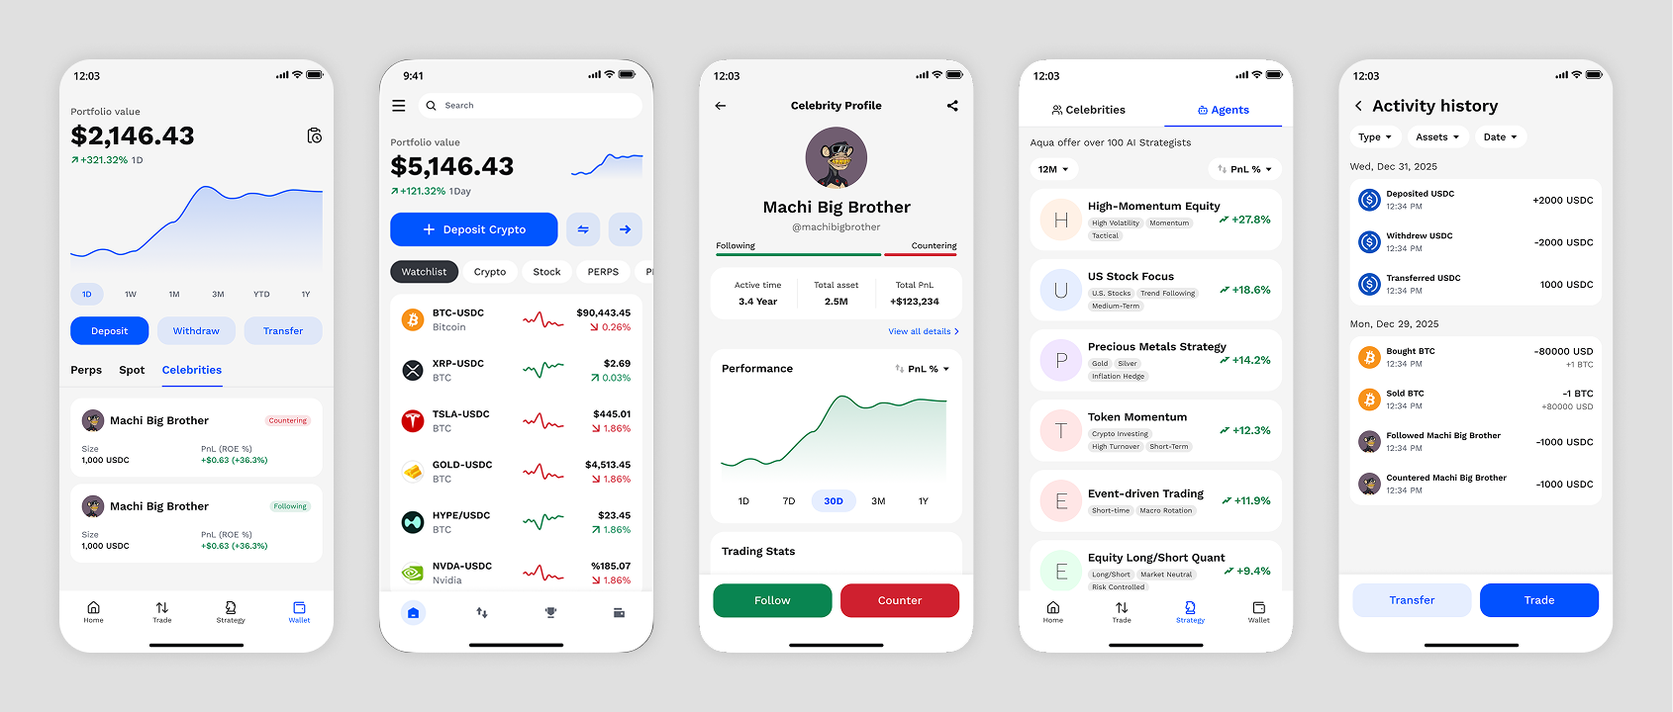
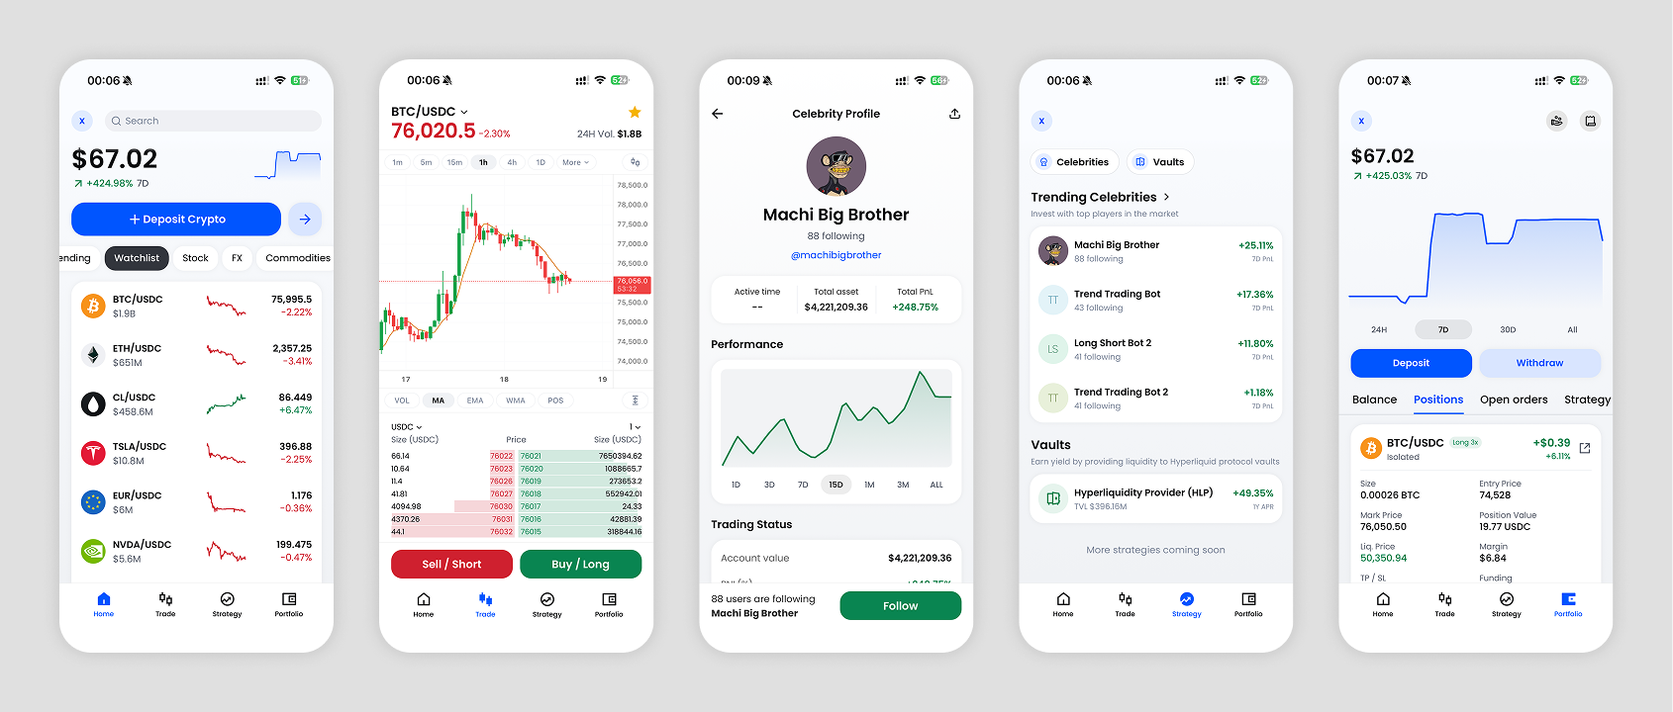
Update AQUA Exchange project & resume: reorder, add iframe, update content and roles

diff --git a/content/en/project/aqua-exchange.md b/content/en/project/aqua-exchange.md
@@ -1,18 +1,45 @@
 ---
 title: "AQUA Exchange"
 date: "2026-02-21"
-intro: "Trade Anything, By Anyone"
-sorting: 4
+intro: "Web3 Full-Spectrum Derivatives Exchange"
+sorting: 5
 coverImage: "/assets/cover-image/Aqua.webp"
 favicon: "/assets/favicon/aqua-icon.webp"
 ---
 
-> Trade Anything, By Anyone
+> Web3 Full-Spectrum Derivatives Exchange
 >
 
-AQUA Exchange is a mobile-first social derivatives app built on [**Hyperliquid**](https://hyperliquid.xyz/) that turns complex on-chain trading into simple, one-tap decisions. As the co-founder and design lead, I am responsible for the end-to-end product design — from branding and visual identity to interaction design and front-end implementation via vibe coding.
+AQUA Exchange is a mobile-first social derivatives app built on [**Hyperliquid**](https://hyperliquid.xyz/) that turns complex on-chain trading into simple, one-tap decisions. As the co-founder, I am responsible for product ideation, UX design, front-end development, and brand marketing.
 
-![](/assets/images/aquaex/aqua-hero.webp)
+<style>
+.aqua-iframe-container {
+  width: 100%;
+  overflow: hidden;
+  border-radius: 8px;
+  border: 1px solid #e5e7eb;
+  aspect-ratio: 16/9;
+  position: relative;
+}
+.aqua-iframe-container iframe {
+  width: 133.33%;
+  height: 133.33%;
+  transform: scale(0.75);
+  transform-origin: top left;
+  border: none;
+}
+@media (max-width: 768px) {
+  .aqua-iframe-container {
+    aspect-ratio: 1/1;
+  }
+}
+</style>
+
+<div class="aqua-iframe-container">
+<iframe src="https://www.aquaex.io/"></iframe>
+</div>
+
+<a href="https://www.aquaex.io/" target="_blank" rel="noopener noreferrer" style="display: inline-flex; align-items: center; gap: 6px; margin-top: 12px; padding: 6px 14px; background: #000; color: #fff; border-radius: 6px; text-decoration: none; font-weight: 500; font-size: 14px;">Visit AQUA Exchange <svg width="14" height="14" viewBox="0 0 24 24" fill="none" stroke="currentColor" stroke-width="2" stroke-linecap="round" stroke-linejoin="round"><path d="M7 17L17 7"/><path d="M7 7h10v10"/></svg></a>
 
 ## Vision
 
@@ -20,34 +47,27 @@ The derivatives market is massive, yet on-chain trading remains inaccessible to 
 
 ## What We Offer
 
-### Access All Markets
-
-One-click access to on-chain derivatives across Hyperliquid/HIP-3 — crypto, tokenized stocks, metals, gaming assets and more. AQUA aggregates diverse markets into a single, unified trading experience.
-
-### Decision-Simplifying
-
-Native social & AI features — including celebrity follow/inverse trading and agent strategies — reduce decision friction and turn discovery into action. Users don't need to be experts; they can leverage the wisdom of top traders and AI-powered strategies.
-
-### Secure & Convenient
-
-Mobile-first design with fiat on-ramps and a social-login, no-mnemonic wallet for secure, low-friction trading. Users can get started without dealing with seed phrases or complex wallet setups.
+AQUA supports full on-chain derivatives trading across Hyperliquid/HIP-3 — crypto, tokenized stocks, metals, gaming assets, and more — with all the essential exchange capabilities including real-time charts, order management, position tracking, and market data. Users can follow and copy celebrity traders or AI agent strategies with one tap, access Hyperliquid Vaults for managed trading strategies, and earn rewards through a built-in referral system with points and commission rebates. The mobile-first design features fiat on-ramps and a social-login, no-mnemonic wallet for secure, low-friction trading.
 
 ![](/assets/images/aquaex/aqua-ui.webp)
 
 ## My Role
 
-As the design lead and co-founder, my responsibilities span across:
+As the co-founder, I am responsible for:
 
-- **Brand & Visual Identity** — Created the AQUA brand system, including logo, color palette, typography, and visual language
-- **Product Design** — Designed the full user journey from onboarding to trading, focusing on simplifying complex derivatives workflows
-- **Mobile-First UX** — Crafted an intuitive mobile trading experience that balances information density with usability
-- **Social Trading Features** — Designed the follow/inverse trading system and social discovery flows
-- **Vibe Coding** — Implemented key front-end components and marketing pages using vibe coding approach
+- **Product Ideation** — Defining the product vision and exploring creative directions for on-chain trading experiences
+- **Feature Definition** — Scoping and prioritizing features across trading, social, and onboarding flows
+- **UX Design** — Designing the end-to-end user experience, from information architecture to interaction details
+- **Front-end Development** — Building key front-end components and pages
+- **Brand & Marketing** — Creating the AQUA brand system and driving marketing strategies
 
 ## Partners
 
-AQUA is built on Hyperliquid and integrates with Privy for seamless social-login wallet infrastructure.
+- [**Hyperliquid**](https://hyperliquid.xyz/) — On-chain perpetual trading infrastructure
+- [**TradingView**](https://www.tradingview.com/) — Professional charting and candlestick data
+- [**Privy**](https://www.privy.io/) — Privacy-preserving social-login wallet infrastructure
+- [**Olwy**](https://olwy.co/) — Copy trading and follow trading capabilities
 
 ## Status
 
-AQUA is currently in development, with App Store and Google Play launches coming soon.
+AQUA is now live on both iOS and Android. Visit [aquaex.io](https://www.aquaex.io/) to download and start trading.

diff --git a/resume/content/en/product-manager.md b/resume/content/en/product-manager.md
@@ -12,12 +12,11 @@ label: "Product Manager"
 
 ## Core Competencies
 
-- **User & Market Insight** – Skilled at uncovering user needs through research, interviews, and behavioral analysis; adept at identifying innovation opportunities from real-world usage patterns
+- **Full-stack Product Builder** – Capable of owning the entire product lifecycle independently — from ideation and feature definition to UX design and front-end development (React) — bridging strategy, design, and engineering into one cohesive delivery
 - **AI Product Expertise** – Deeply involved in Microsoft's AI product development (LLM-based consumer products and content ecosystems), with strong understanding of industry trends, market dynamics, and human-centered AI applications
+- **User & Market Insight** – Skilled at uncovering user needs through research, interviews, and behavioral analysis; adept at identifying innovation opportunities from real-world usage patterns
 - **Cross-functional Collaboration** – Experienced in coordinating across BD, product, design, engineering, and data teams globally to drive rapid, agile iteration and successful product delivery
 - **Full-cycle Product Management** – End-to-end ownership from ideation and roadmap planning to launch and post-launch iteration, with data-driven decision-making cultivated through MBA and industry experience
-- **Product Communication & Storytelling** – Proficient in crafting and presenting compelling product narratives and professional materials to clearly convey value and increase adoption
-- **Design-driven Execution** – Deep design background enabling high-quality UX standards, efficient collaboration with design teams, and a unique ability to bridge strategy and craft
 
 ---
 
@@ -37,19 +36,23 @@ label: "Product Manager"
 - **MSN Content Creator**: Built AI-assisted content remixing tools for the MSN Partner Hub platform, enabling 3,000+ global media partners to increase audience reach and engagement.
 - **MSN Money Assistant**: Proposed and scoped an AI investment assistant concept, defining user flows and interaction models to support personalized financial insights.
 
+### <img src="/assets/favicon/aqua-icon.webp" alt=""> AQUA Exchange – Product, Design & Development <span class="resume-meta">Dec 2025 – Present</span>
+
+- A Web3 mobile-first derivatives exchange built on Hyperliquid, supporting full perpetual trading, celebrity & AI copy trading, Hyperliquid Vaults, and referral rewards. Live on iOS and Android.
+- Sole product and design owner — drove product ideation, feature definition, UX design, and front-end development (React), delivering a pixel-perfect trading app from concept to production.
+- Built every screen end-to-end: defined all product features, designed the full user experience, and implemented the entire front end — demonstrating full-stack product-design-engineering capability.
+
 ### <img src="/assets/favicon/ant.svg" alt=""> Ant International – UX Designer (Product-Oriented) <span class="resume-meta">Shanghai, Apr 2020 – Dec 2022</span>
 
 - Led end-to-end design and product definition for Alipay+ global unified payment solution, covering the full payment journey from onboarding to settlement for over 800M e-wallet users worldwide; localized experiences through in-depth market research in Southeast Asia, South Korea, and Eastern Europe.
-- Designed and improved both consumer-facing payment flows and B2B merchant tools, ensuring usability, regulatory compliance, and scalability across multiple markets.
-- Tracked post-launch user feedback and performance data to drive continuous enhancements, adapting features to evolving market and user needs.
+- Designed and improved both consumer-facing payment flows and B2B merchant tools, ensuring usability, regulatory compliance, and scalability across multiple markets; tracked post-launch feedback and performance data to drive continuous enhancements.
 - Partnered with BD teams on field visits to 7 cross-border e-commerce and payment companies in Shenzhen, gathering firsthand insights to shape feature priorities and support successful deal closures.
 
 
 ### <img src="/assets/favicon/bjmun.svg" alt=""> Entrepreneurial Experience – BJMUN – Founder / Chairman <span class="resume-meta">Beijing, 2013 – 2024</span>
 
 - Founded and scaled a Model United Nations (MUN) youth education platform, delivering large-scale simulation events to 3,000+ annual students and generating RMB 5M+ yearly revenue over 10 years. 
-- Built a stable B2B client network with top schools and agencies; managed end-to-end operations from event planning to commercial partnerships.
-- Maintained business continuity during the pandemic and successfully exited in 2024 through a full brand and company sale and personal exit.
+- Built a stable B2B client network with top schools and agencies; managed end-to-end operations from event planning to commercial partnerships. Maintained business continuity during the pandemic and successfully exited in 2024 through a full brand and company sale and personal exit.
 
 
 ---

diff --git a/content/zh/project/aqua-exchange.md b/content/zh/project/aqua-exchange.md
@@ -1,18 +1,45 @@
 ---
 title: "AQUA Exchange"
 date: "2026-02-21"
-intro: "交易一切，尽在 Aqua"
-sorting: 4
+intro: "Web3 全衍生品交易所"
+sorting: 5
 coverImage: "/assets/cover-image/Aqua.webp"
 favicon: "/assets/favicon/aqua-icon.webp"
 ---
 
-> 交易一切，尽在 Aqua
+> Web3 全衍生品交易所
 >
 
-AQUA Exchange 是一款基于 [**Hyperliquid**](https://hyperliquid.xyz/) 构建的移动优先社交衍生品交易应用，将复杂的链上交易简化为一键式操作。作为联合创始人兼设计负责人，我负责端到端的产品设计——从品牌与视觉识别到交互设计，再到通过 Vibe Coding 进行前端实现。
+AQUA Exchange 是一款基于 [**Hyperliquid**](https://hyperliquid.xyz/) 构建的移动优先社交衍生品交易应用，将复杂的链上交易简化为一键式操作。作为联合创始人，我负责产品创意、UX 设计、前端开发和品牌营销。
 
-![](/assets/images/aquaex/aqua-hero.webp)
+<style>
+.aqua-iframe-container {
+  width: 100%;
+  overflow: hidden;
+  border-radius: 8px;
+  border: 1px solid #e5e7eb;
+  aspect-ratio: 16/9;
+  position: relative;
+}
+.aqua-iframe-container iframe {
+  width: 133.33%;
+  height: 133.33%;
+  transform: scale(0.75);
+  transform-origin: top left;
+  border: none;
+}
+@media (max-width: 768px) {
+  .aqua-iframe-container {
+    aspect-ratio: 1/1;
+  }
+}
+</style>
+
+<div class="aqua-iframe-container">
+<iframe src="https://www.aquaex.io/"></iframe>
+</div>
+
+<a href="https://www.aquaex.io/" target="_blank" rel="noopener noreferrer" style="display: inline-flex; align-items: center; gap: 6px; margin-top: 12px; padding: 6px 14px; background: #000; color: #fff; border-radius: 6px; text-decoration: none; font-weight: 500; font-size: 14px;">访问 AQUA Exchange <svg width="14" height="14" viewBox="0 0 24 24" fill="none" stroke="currentColor" stroke-width="2" stroke-linecap="round" stroke-linejoin="round"><path d="M7 17L17 7"/><path d="M7 7h10v10"/></svg></a>
 
 ## 愿景
 
@@ -20,34 +47,27 @@ AQUA Exchange 是一款基于 [**Hyperliquid**](https://hyperliquid.xyz/) 构建
 
 ## 核心优势
 
-### 全市场覆盖
-
-一键接入 Hyperliquid/HIP-3 上的链上衍生品——涵盖加密货币、代币化股票、金属、游戏资产等。AQUA 将多元市场整合到一个统一的交易体验中。
-
-### 决策简化
-
-原生社交与 AI 功能——包括名人跟单/反向交易和 AI 代理策略——降低决策阻力，将发现直接转化为行动。用户无需成为专家，即可借助顶级交易者的智慧和 AI 驱动的策略。
-
-### 安全便捷
-
-移动优先设计，支持法币入金和社交登录的免助记词钱包，实现安全、低摩擦的交易体验。用户无需处理种子短语或复杂的钱包设置即可快速上手。
+AQUA 支持 Hyperliquid/HIP-3 上的全部链上衍生品交易——涵盖加密货币、代币化股票、金属、游戏资产等——具备交易所所有基础能力，包括实时图表、订单管理、持仓追踪和行情数据。用户可以一键跟单名人交易员或 AI 代理策略，接入 Hyperliquid Vaults 参与托管交易策略，并通过内置的推荐系统获取积分和返佣奖励。移动优先设计，支持法币入金和社交登录的免助记词钱包，实现安全、低摩擦的交易体验。
 
 ![](/assets/images/aquaex/aqua-ui.webp)
 
 ## 我的角色
 
-作为设计负责人和联合创始人，我的职责涵盖：
+作为联合创始人，我负责：
 
-- **品牌与视觉识别** — 创建 AQUA 品牌体系，包括标志、色彩体系、字体排印和视觉语言
-- **产品设计** — 设计从注册到交易的完整用户旅程，专注于简化复杂的衍生品交易流程
-- **移动优先体验** — 打造直观的移动端交易体验，在信息密度与易用性之间取得平衡
-- **社交交易功能** — 设计跟单/反向交易系统及社交发现流程
-- **Vibe Coding** — 通过 Vibe Coding 方式实现关键前端组件和营销页面
+- **产品创意** — 定义产品愿景，探索链上交易体验的创新方向
+- **功能定义** — 规划和确定交易、社交、注册等核心功能的范围与优先级
+- **UX 设计** — 设计端到端的用户体验，从信息架构到交互细节
+- **前端开发** — 构建关键前端组件和页面
+- **品牌营销** — 创建 AQUA 品牌体系并推动营销策略
 
 ## 合作伙伴
 
-AQUA 基于 Hyperliquid 构建，并集成 Privy 提供无缝的社交登录钱包基础设施。
+- [**Hyperliquid**](https://hyperliquid.xyz/) — 链上永续合约交易基础设施
+- [**TradingView**](https://www.tradingview.com/) — 专业 K 线图表与行情数据
+- [**Privy**](https://www.privy.io/) — 隐私保护的社交登录钱包基础设施
+- [**Olwy**](https://olwy.co/) — 跟单与跟投功能
 
 ## 状态
 
-AQUA 目前正在开发中，App Store 和 Google Play 即将上线。
+AQUA 已在 iOS 和 Android 上线。前往 [aquaex.io](https://www.aquaex.io/) 下载并开始交易吧。

diff --git a/resume/content/en/product-designer.md b/resume/content/en/product-designer.md
@@ -12,11 +12,11 @@ label: "Product Designer"
 
 ## Core Competencies
 
-- **End-to-End Design & Design Systems:** Experienced in the full design cycle — from user research, interaction prototyping, and visual design to building and maintaining design systems — ensuring consistent expression and efficient product iteration.
-- **AI-Empowered Design:** Proficient in AI-native design workflows — leveraging Vibecoding for rapid prototyping and implementation, prompt engineering for creative exploration, and integrating LLM capabilities into product experiences from concept to delivery.
-- **User Research & Insight Generation:** Skilled at conducting interviews, usability testing, and data analysis to uncover user pain points and translate findings into actionable design solutions.
-- **Cross-Functional Team Management:** Proven ability to lead cross-functional teams of PM, engineers, and designers, driving design implementation in complex projects and enhancing overall value.
-- **Global Perspective:** Extensive experience designing international products across North America and Southeast Asia, with the ability to balance diverse user needs and cultural contexts.
+- **Full-stack Product Builder:** Capable of owning the entire product lifecycle independently — from ideation and feature definition to UX design and front-end development (React) — delivering pixel-perfect products from concept to production
+- **End-to-End Design & Design Systems:** Experienced in the full design cycle — from user research, interaction prototyping, and visual design to building and maintaining design systems — ensuring consistent expression and efficient product iteration
+- **AI-Empowered Design:** Proficient in AI-native design workflows — leveraging coding for rapid prototyping and implementation, prompt engineering for creative exploration, and integrating LLM capabilities into product experiences from concept to delivery
+- **Cross-Functional Team Leadership:** Proven ability to lead cross-functional teams of PM, engineers, and designers, driving design implementation in complex projects and enhancing overall value
+- **Global Perspective:** Extensive experience designing international products across North America, Southeast Asia, and Web3, with the ability to balance diverse user needs and cultural contexts
 
 ---
 
@@ -33,11 +33,16 @@ label: "Product Designer"
 - Contribute to Microsoft China design team Studio 8's communications, leading team brand building, internal/external outreach; including Peking University course collaboration and Microsoft Asia R&D Group annual event key visual design.
 - Drive Vibe Coding and various AI tools adoption within the design team, exploring new AI + Design workflows to boost design efficiency. Encourage designers to take on more PM responsibilities, expanding design's influence within the team. Simultaneously drive team tool and process optimization to holistically improve productivity and team well-being.
 
+### <img src="/assets/favicon/aqua-icon.webp" alt=""> AQUA Exchange – Product, Design & Development <span class="resume-meta">Dec 2025 – Present</span>
+
+- A Web3 mobile-first derivatives exchange built on Hyperliquid, supporting full perpetual trading, celebrity & AI copy trading, Hyperliquid Vaults, and referral rewards. Live on iOS and Android.
+- Sole product and design owner — drove product ideation, feature definition, UX design, and front-end development (React), delivering a pixel-perfect trading app from concept to production.
+- Built every screen end-to-end: defined all product features, designed the full user experience, and implemented the entire front end — demonstrating full-stack product-design-engineering capability.
+
 ### <img src="/assets/favicon/ant.svg" alt=""> Ant International — UX Designer <span class="resume-meta">Shanghai, Apr 2020 – Dec 2022</span>
 
 - Participated in Alipay+ global payment network design, covering user-side (mobile and desktop payment experience) and institutional-side (merchant onboarding website, help platform, developer integration flow, documentation center, and developer portal) full-cycle experience design.
 - Led payment experience design for Alipay users on Apple App Store, including payment method enrollment flow and the Alipay "Apple Zone" experience. Apple Zone provides Apple users with membership benefits, billing management, and other features to enhance brand affinity and user retention.
-- Designed payment experiences for Taobao Global and Tmall International in Southeast Asia, Taiwan, Hong Kong, and Macao, optimizing payment flows to improve convenience and success rates.
 - Led Ant Group's first Figma procurement and adoption plan, driving compliance, data security, and procurement process improvements for overseas SaaS tools, and managing Figma account and usage standards at the group level.
 
 ---

diff --git a/resume/content/zh/product-manager.md b/resume/content/zh/product-manager.md
@@ -12,12 +12,11 @@ label: "产品经理"
 
 ## 核心能力
 
-- **用户与市场洞察** – 擅长通过用户研究、访谈和行为分析挖掘用户需求；善于从真实使用场景中发现创新机会。
-- **AI 产品专长** – 深度参与微软 AI 产品研发（基于大语言模型的 C 端产品与内容生态），对行业趋势、市场动态和以人为中心的 AI 应用有深入理解。
-- **跨职能协作** – 在全球范围内协调 BD、产品、设计、工程和数据团队，推动快速敏捷迭代与产品成功交付。
-- **全周期产品管理** – 从构思、路线图规划到产品上线与迭代的端到端负责，结合 MBA 学术训练与行业实战培养数据驱动决策能力。
-- **产品沟通与叙事** – 擅长构建和表达有说服力的产品故事与专业材料，清晰传递产品价值并提升用户采纳。
-- **设计驱动执行** – 深厚的设计背景确保高品质 UX 标准，与设计团队高效协作，具备独特的战略与执行桥梁能力。
+- **全栈产品构建者** – 能够独立负责产品全生命周期——从构思、功能定义到 UX 设计和前端开发（React）——将战略、设计和工程整合为一体化交付
+- **AI 产品专长** – 深度参与微软 AI 产品研发（基于大语言模型的 C 端产品与内容生态），对行业趋势、市场动态和以人为中心的 AI 应用有深入理解
+- **用户与市场洞察** – 擅长通过用户研究、访谈和行为分析挖掘用户需求；善于从真实使用场景中发现创新机会
+- **跨职能协作** – 在全球范围内协调 BD、产品、设计、工程和数据团队，推动快速敏捷迭代与产品成功交付
+- **全周期产品管理** – 从构思、路线图规划到产品上线与迭代的端到端负责，结合 MBA 学术训练与行业实战培养数据驱动决策能力
 
 ---
 
@@ -37,19 +36,23 @@ label: "产品经理"
 - **MSN 内容创作者工具**：为 3000+ 全球媒体伙伴打造 AI 辅助内容再创作工具，显著提升受众覆盖与用户参与度。
 - **MSN 投资助手**：提出并规划 AI 投资助手概念，定义用户流程与交互模型以支持个性化金融洞察。
 
+### <img src="/assets/favicon/aqua-icon.webp" alt=""> AQUA Exchange – 产品、设计与开发 <span class="resume-meta">2025.12 – 至今</span>
+
+- 一款基于 Hyperliquid 构建的 Web3 移动优先衍生品交易所，支持全品类永续合约交易、名人与 AI 跟单、Hyperliquid Vaults 金库及推荐返佣。已上线 iOS 和 Android。
+- 独立负责产品与设计全流程——从产品构思、功能定义、UX 设计到前端开发（React），将像素级完美的交易应用从概念推进到上线。
+- 端到端构建每一个页面：定义全部产品功能、设计完整用户体验、实现全部前端 — 展现产品+设计+工程的全栈能力。
+
 ### <img src="/assets/favicon/ant.svg" alt=""> 蚂蚁国际 – 产品设计师 <span class="resume-meta">上海, 2020.04 – 2022.12</span>
 
 - 主导 Alipay+ 全球统一支付方案的端到端设计与产品定义，覆盖 8 亿+电子钱包用户从注册到结算的完整支付旅程；通过东南亚、韩国及东欧市场的深入调研，推动本地化体验优化。
-- 设计并改进面向消费者的支付流程及 B 端商户工具，确保产品的易用性、合规性与多市场可扩展性。
-- 跟踪上线后的用户反馈与数据表现，持续优化功能，灵活适配市场与用户需求变化。
+- 设计并改进面向消费者的支付流程及 B 端商户工具，确保产品的易用性、合规性与多市场可扩展性；跟踪上线后用户反馈与数据表现，持续优化功能。
 - 与商务团队联合实地走访深圳 7 家跨境电商及支付企业，收集一线洞察以指导功能优先级并助力业务拓展。
 
 
 ### <img src="/assets/favicon/bjmun.svg" alt=""> 创业经历 – 北京模联 BJMUN – 创始人 / 主席 <span class="resume-meta">北京, 2013 – 2024</span>
 
 - 创立并运营北京模拟联合国（BJMUN）青少年教育平台，年服务 3000+ 学生，实现年营收 500 万+ 人民币。
-- 建立稳定的 B2B 客户网络，与顶尖学校及教育机构保持长期合作；负责从活动策划到商业合作的全流程管理。
-- 在疫情期间保持业务连续性，并于 2024 年实现整体品牌与公司出售，顺利完成个人退出。
+- 建立稳定的 B2B 客户网络，与顶尖学校及教育机构保持长期合作；负责从活动策划到商业合作的全流程管理。在疫情期间保持业务连续性，并于 2024 年实现整体品牌与公司出售，顺利完成个人退出。
 
 
 ---

diff --git a/resume/content/zh/product-designer.md b/resume/content/zh/product-designer.md
@@ -12,11 +12,11 @@ label: "产品设计"
 
 ## 核心能力
 
-- **端到端设计与设计系统：**具备从用户研究、交互原型、视觉设计到设计系统搭建与维护的完整经验，支持产品高效迭代和设计表达一致性。
-- **AI 赋能设计：**熟练运用 AI 原生设计工作流 — 通过 Vibecoding 实现快速原型与独立落地，运用 Prompt Engineering 进行创意探索，并将大语言模型能力融入从概念到交付的完整产品体验。
-- **用户洞察与痛点挖掘：**善于通过访谈、可用性测试和数据分析识别用户痛点，并将其转化为可落地的设计方案。
-- **跨职能团队管理：**可领导由 PM、工程师及设计师组成的跨职能团队，推动设计在复杂项目中落地并提升整体价值。
-- **国际化视野：**长期在跨国团队设计国际化产品（北美、东南亚等），能够在工作中平衡多元用户需求与文化差异。
+- **全栈产品构建者：**能够独立负责产品全生命周期——从构思、功能定义到 UX 设计和前端开发（React）——将像素级完美的产品从概念推进到上线
+- **端到端设计与设计系统：**具备从用户研究、交互原型、视觉设计到设计系统搭建与维护的完整经验，支持产品高效迭代和设计表达一致性
+- **AI 赋能设计：**熟练运用 AI 原生设计工作流——通过编程实现快速原型与独立落地，运用 Prompt Engineering 进行创意探索，并将大语言模型能力融入从概念到交付的完整产品体验
+- **跨职能团队领导：**可领导由 PM、工程师及设计师组成的跨职能团队，推动设计在复杂项目中落地并提升整体价值
+- **国际化视野：**长期在跨国团队设计国际化产品（北美、东南亚、Web3 等），能够在工作中平衡多元用户需求与文化差异
 
 ---
 
@@ -33,6 +33,12 @@ label: "产品设计"
 - 参与微软中国区设计团队 Studio 8 宣传工作，主导团队品牌建设、内部宣传与对外交流；包括北京大学课程合作，以及微软亚洲研发集团年会 KV 设计等。
 - 推动 Vibe Coding 与各类 AI 工具在设计团队的落地，探索 AI + 设计 的新工作模式，提升设计效率。鼓励设计师承担更多产品经理职能，扩大设计在团队中的影响力。同时推动团队工具与流程优化，全面提升产能与团队幸福感。
 
+
+### <img src="/assets/favicon/aqua-icon.webp" alt=""> AQUA Exchange – 产品、设计与开发 <span class="resume-meta">2025.12 – 至今</span>
+
+- 一款基于 Hyperliquid 构建的 Web3 移动优先衍生品交易所，支持全品类永续合约交易、名人与 AI 跟单、Hyperliquid Vaults 金库及推荐返佣。已上线 iOS 和 Android。
+- 独立负责产品与设计全流程——从产品构思、功能定义、UX 设计到前端开发（React），将像素级完美的交易应用从概念推进到上线。
+- 端到端构建每一个页面：定义全部产品功能、设计完整用户体验、实现全部前端 - 展现产品+设计+工程的全栈能力。
 
 ### <img src="/assets/favicon/ant.svg" alt=""> 蚂蚁国际 - 体验设计师 <span class="resume-meta">上海, 2020.04 – 2022.12</span>
 

diff --git a/content/en/project/bing-news.md b/content/en/project/bing-news.md
@@ -2,7 +2,7 @@
 title: "Bing News"
 date: "2026-02-16"
 intro: "Help people break their information cocoons"
-sorting: 5
+sorting: 4
 coverImage: "/assets/cover-image/Bing News.webp"
 favicon: "/assets/favicon/Bing icon.webp"
 ---

diff --git a/content/zh/project/bing-news.md b/content/zh/project/bing-news.md
@@ -2,7 +2,7 @@
 title: "必应新闻"
 date: "2026-02-16"
 intro: "帮人们打破信息茧房"
-sorting: 5
+sorting: 4
 coverImage: "/assets/cover-image/Bing News.webp"
 favicon: "/assets/favicon/Bing icon.webp"
 ---
